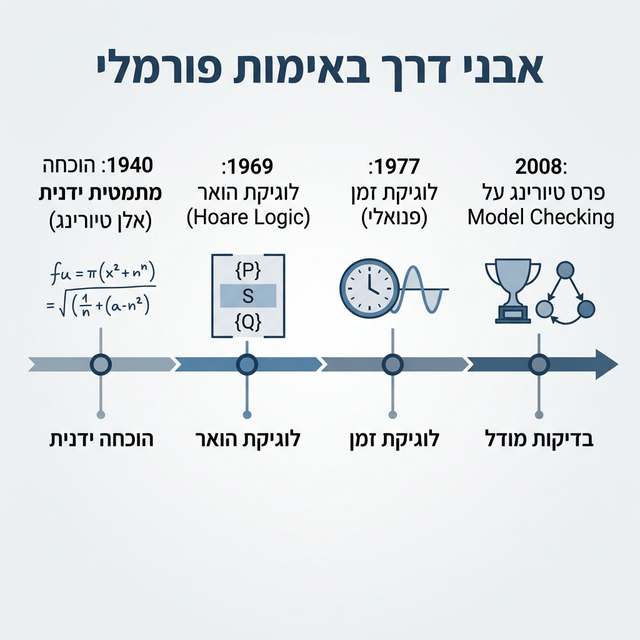
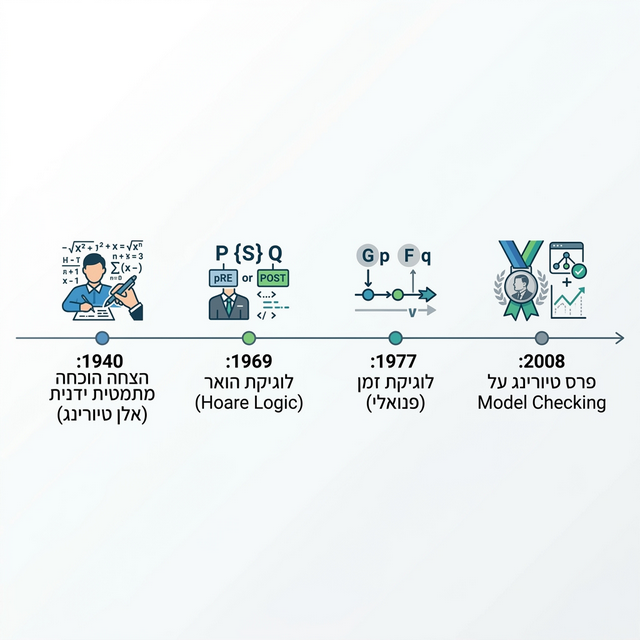
ציר זמן

Changed region(s): [[0.0312, 0.2188, 0.9688, 0.7188], [0.125, 0.0625, 0.8438, 0.1562]]

diff --git a/00-intro.md b/00-intro.md
@@ -309,12 +309,15 @@ $$M = \frac{(\sum_{i=1}^{N} n_i)!}{\prod_{i=1}^{N} (n_i!)}$$
 
 # התפתחות שיטות אימות 📜
 
-* **1940:** הוכחה מתמטית ידנית (אלן טיורינג).
-* **1969:** לוגיקת הואר (Hoare) לתוכנות סדרתיות.
-* **1977:** אמיר פנואלי מכניס את לוגיקת הזמן (פרס טיורינג 1996).
-* **2008:** פרס טיורינג לקלארק, אמרסון וסיפאקיס על פיתוח Model Checking.
-
-<div class="mt-8 flex justify-center">
-  <img src="./images/verification_history_timeline.png" class="h-80 rounded-lg shadow-xl bg-white p-2" />
+<div class="absolute  bottom-20 left-60 h-50 overflow-hidden shadow-xl rounded-lg bg-white border border-gray-100">
+  <img src="./images/verification_history_timeline.png" class="w-120 max-w-none -mt-30 opacity-95" />
 </div>
+
+<div class="mt-4 space-y-2">
+  <li><strong>1940:</strong> הוכחה מתמטית ידנית (אלן טיורינג).</li>
+  <li><strong>1969:</strong> לוגיקת הואר (Hoare) לתוכנות סדרתיות.</li>
+  <li><strong>1977:</strong> אמיר פנואלי מכניס את לוגיקת הזמן (פרס טיורינג 1996).</li>
+  <li><strong>2008:</strong> פרס טיורינג לקלארק, אמרסון וסיפאקיס על פיתוח Model Checking.</li>
+</div>
+
 
